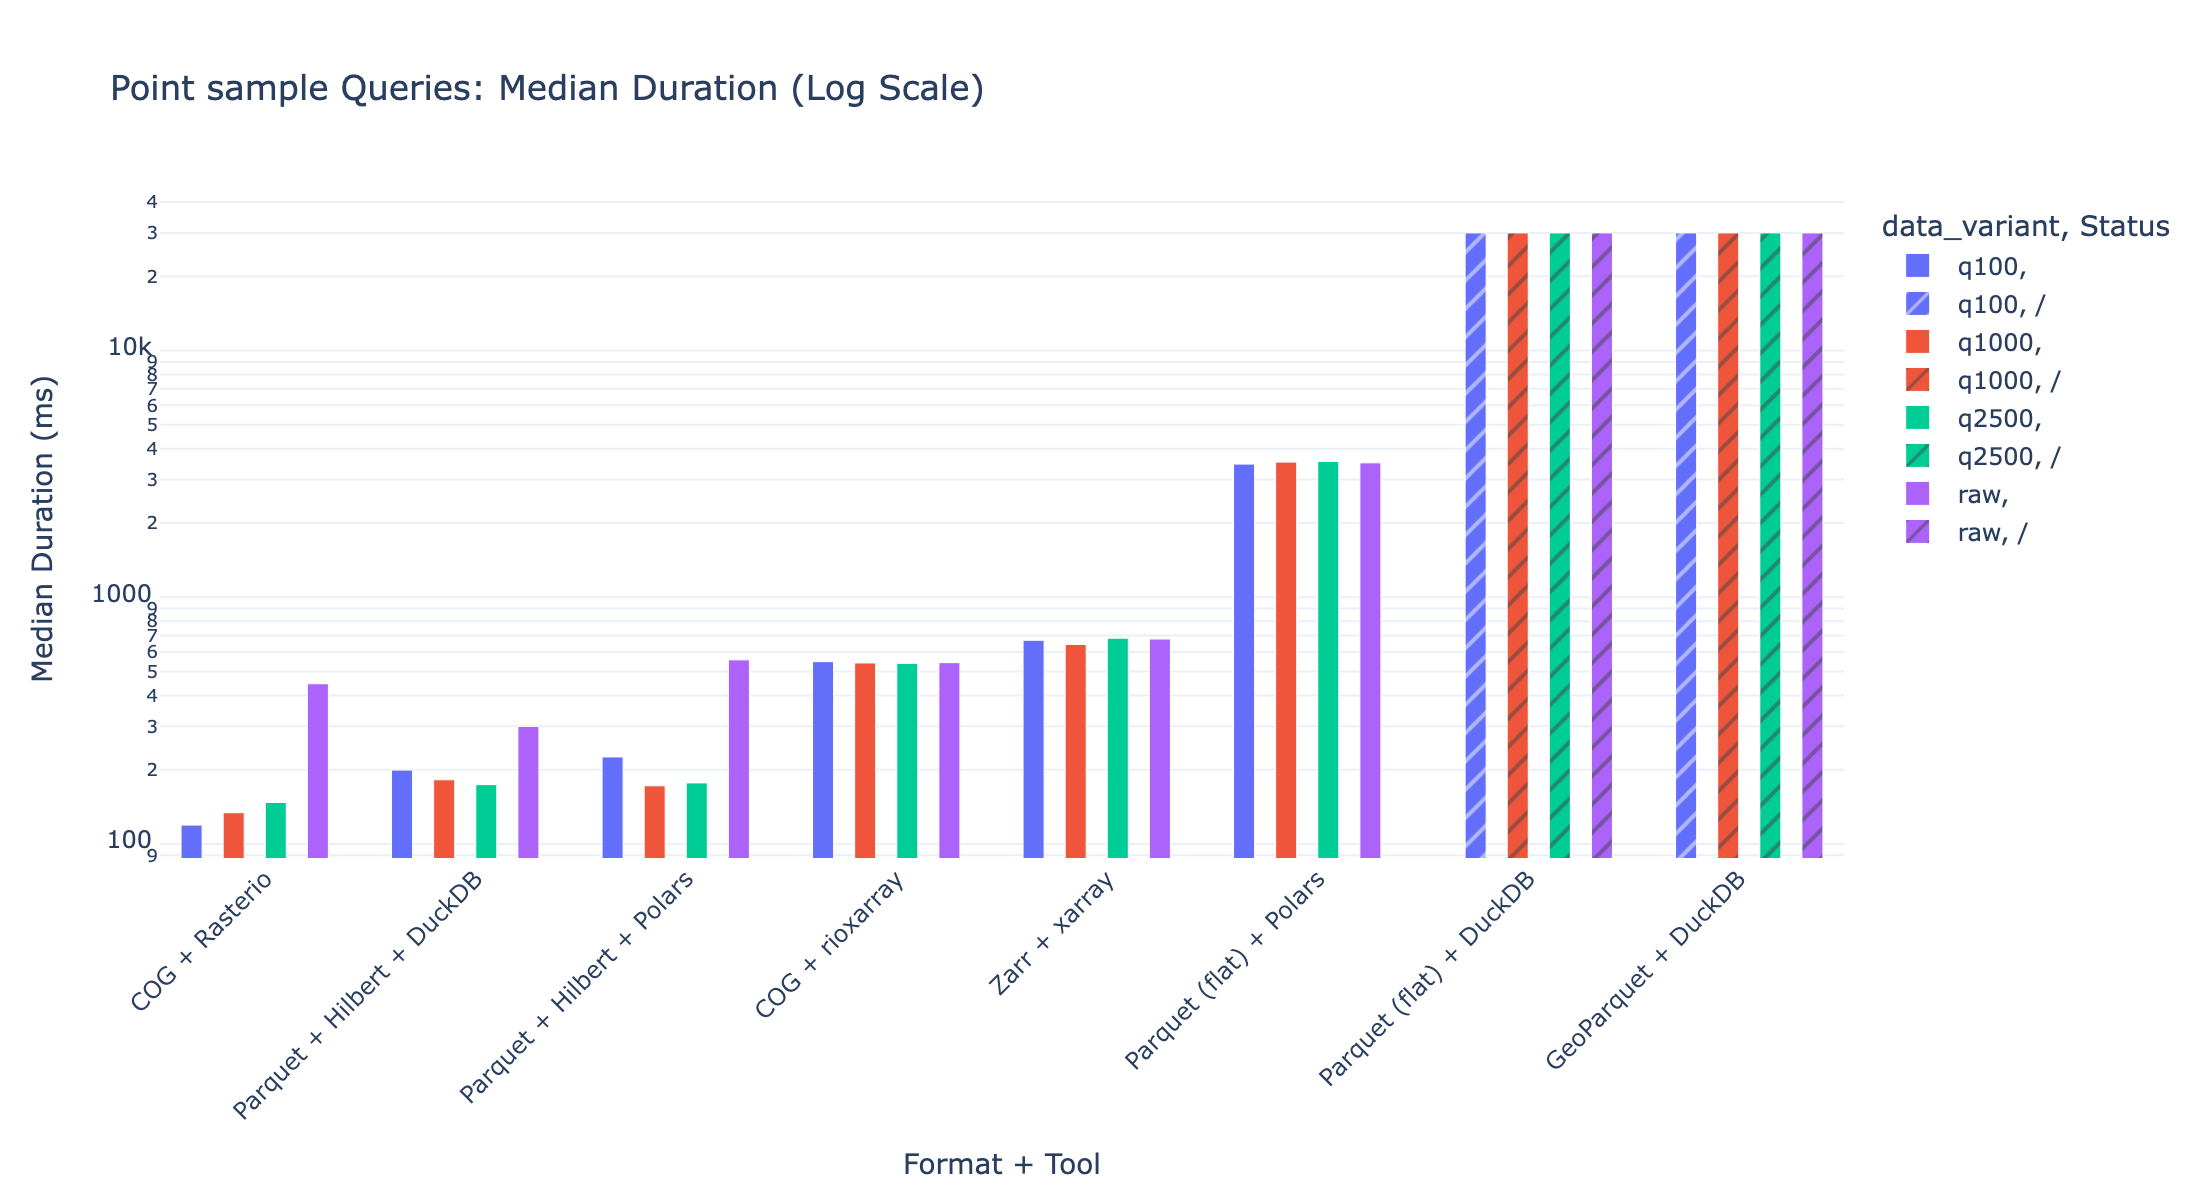
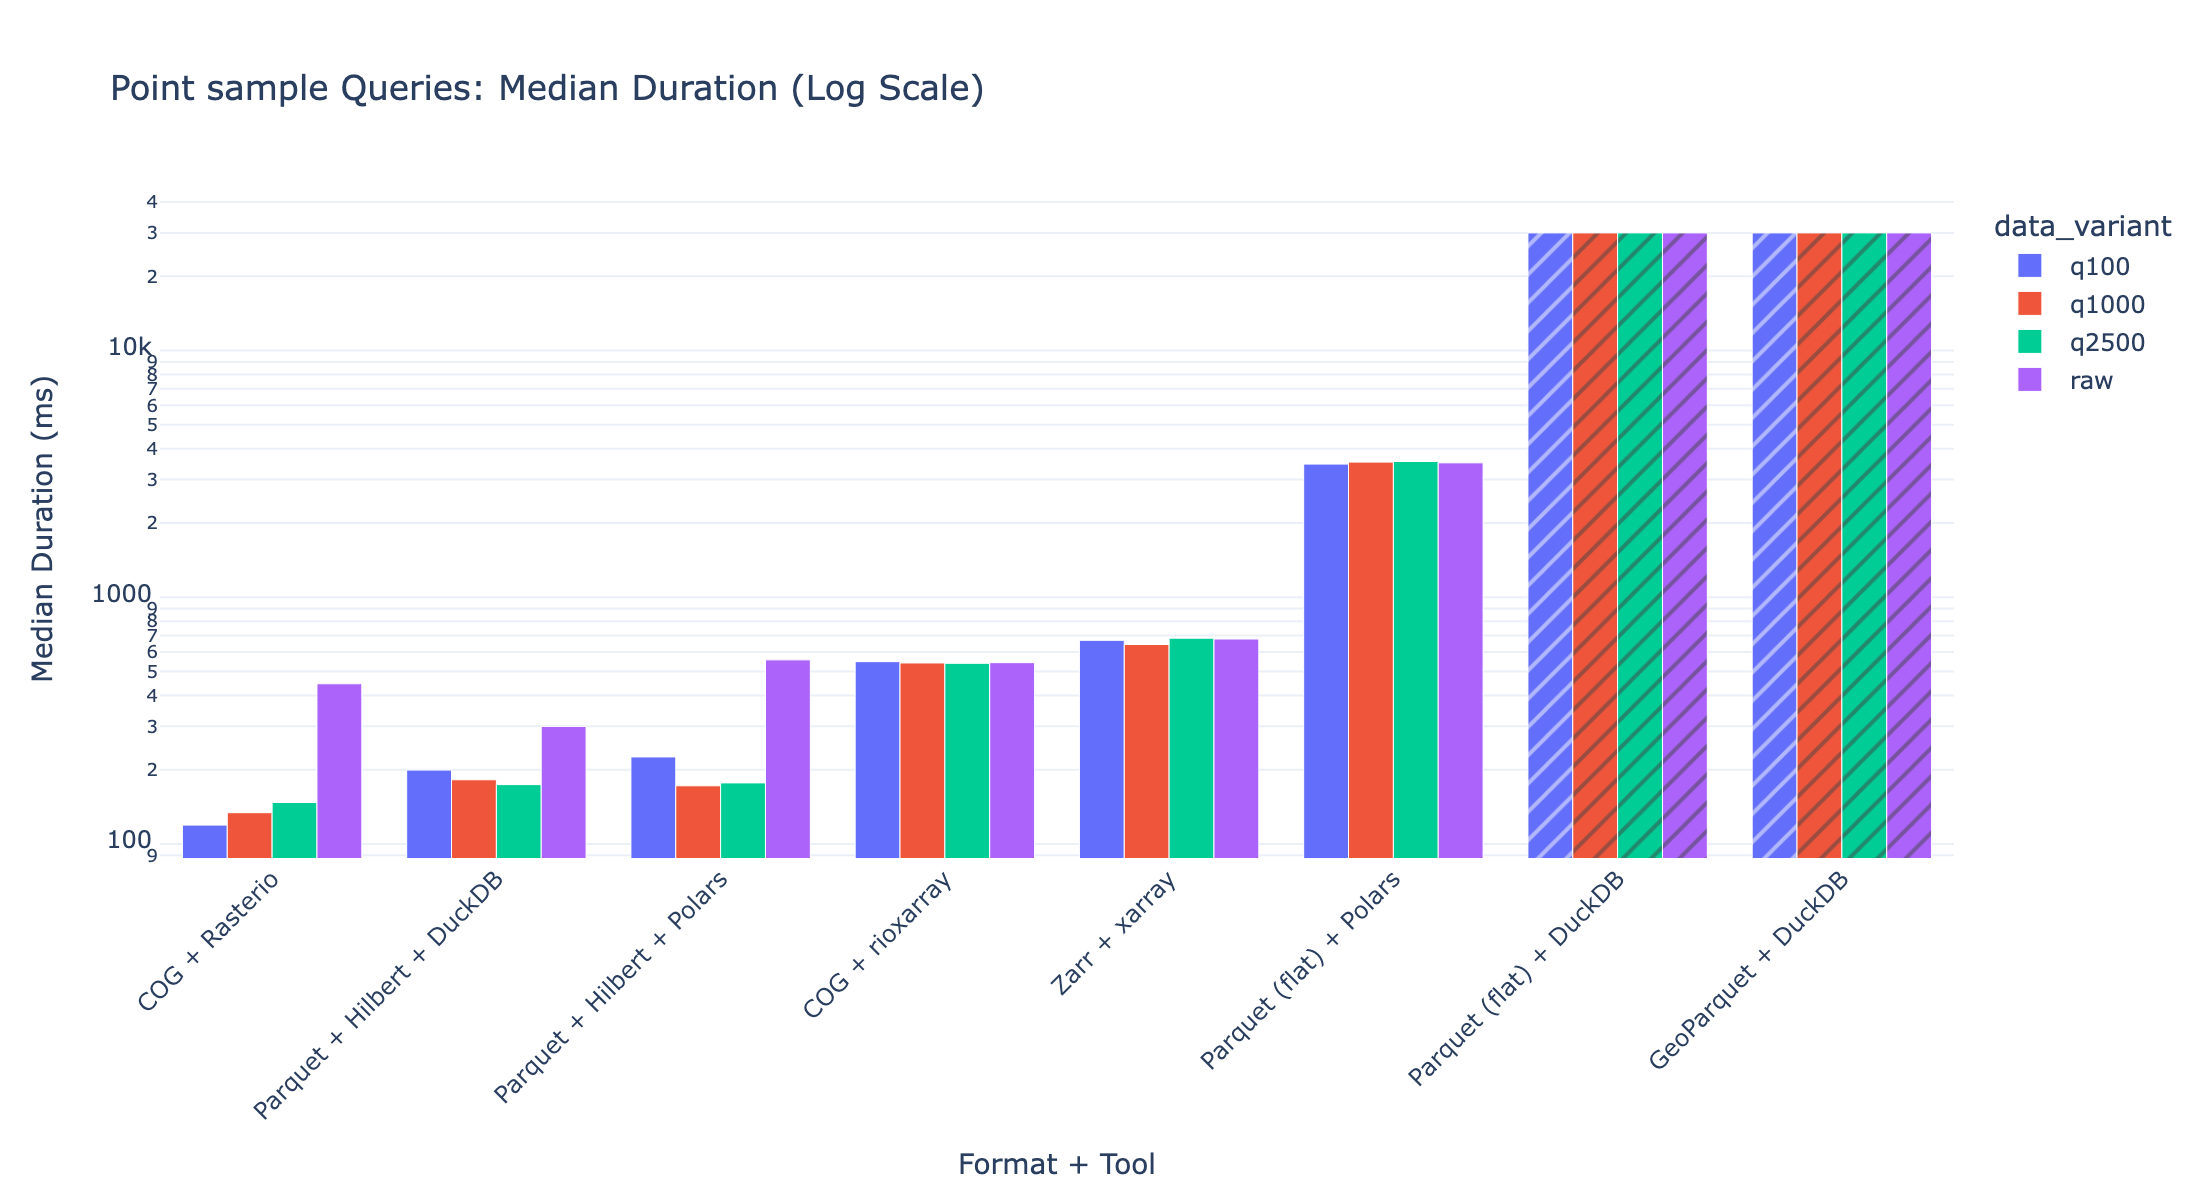
fix: manual pattern application for timeout bars to preserve correct Plotly barmode grouping

diff --git a/dem-format-benchmark/scripts/visualize.py b/dem-format-benchmark/scripts/visualize.py
@@ -91,28 +91,35 @@ def bar_chart_by_query_type(df: pd.DataFrame, query_type: str, filename: str) ->
     # Group and aggregate
     agg = subset.groupby(["format_label", "tool_label", "data_variant"]).agg(
         median_duration_ms=("duration_ms", "median"),
-        # If any run was a timeout in the group, we can mark the group as a timeout
         is_timeout=("status", lambda x: "timeout" if "timeout" in x.values else "success")
     ).reset_index()
 
     agg["combo"] = agg["format_label"] + " + " + agg["tool_label"]
     agg = agg.sort_values(by="median_duration_ms")
     
-    # Create pattern shape column
-    agg["pattern"] = agg["is_timeout"].apply(lambda x: "/" if x == "timeout" else "")
-
     fig = px.bar(
         agg,
         x="combo",
         y="median_duration_ms",
         color="data_variant",
-        pattern_shape="pattern",
         barmode="group",
         title=f"{QUERY_LABELS.get(query_type, query_type)} Queries: Median Duration (Log Scale)",
-        labels={"median_duration_ms": "Median Duration (ms)", "combo": "Format + Tool", "pattern": "Status"},
+        labels={"median_duration_ms": "Median Duration (ms)", "combo": "Format + Tool"},
         log_y=True,
     )
     
+    # Manually apply hatches to timeout bars without destroying the group layout
+    for trace in fig.data:
+        variant = trace.name
+        patterns = []
+        for x_val in trace.x:
+            match = agg[(agg["combo"] == x_val) & (agg["data_variant"] == variant)]
+            if not match.empty and match["is_timeout"].iloc[0] == "timeout":
+                patterns.append("/")
+            else:
+                patterns.append("")
+        trace.marker.pattern = dict(shape=patterns)
+
     # Update legend to make it cleaner
     fig.update_layout(
         template="plotly_white", 
